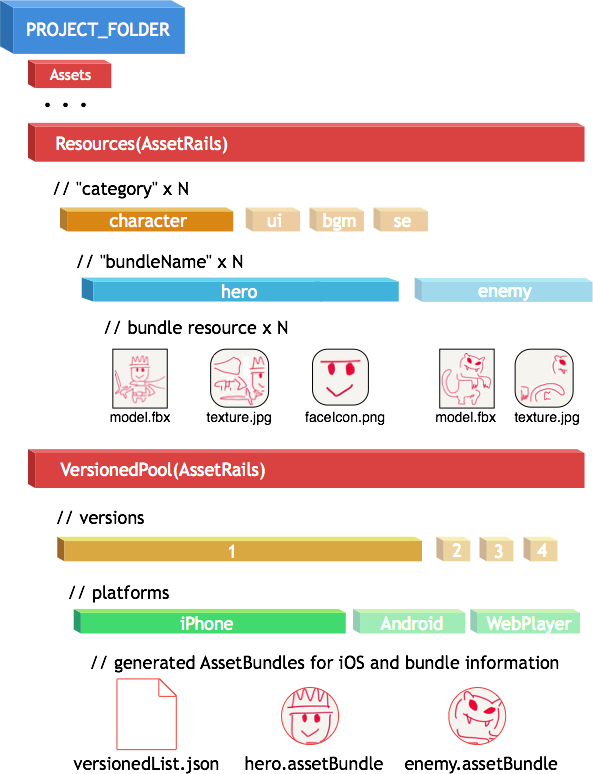
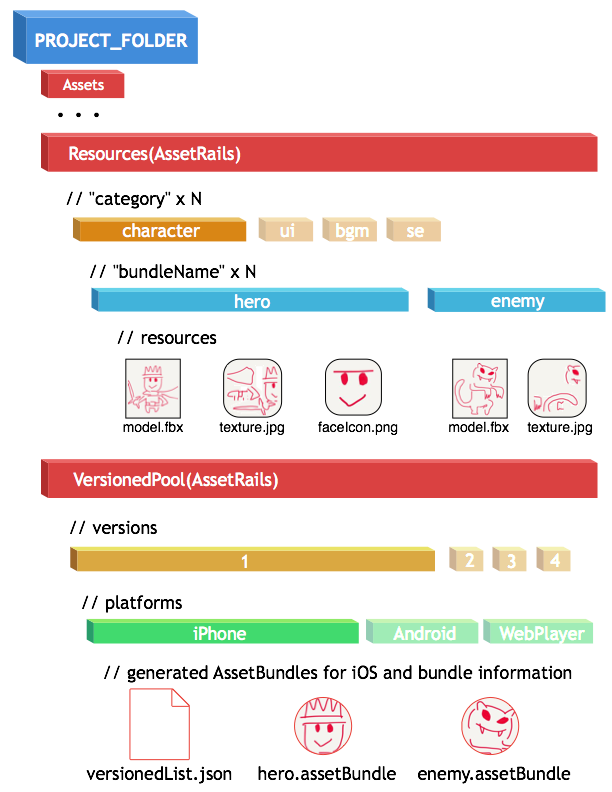
add image

diff --git a/Versioning.md b/Versioning.md
@@ -12,8 +12,7 @@ The "versioning" route outputs the "versioned" AssetBundles datas to below place
 
 	PROJECT_FOLDER/VersionedPool(AssetRails)/
 
-☆図示、version/プラットフォームごと/AssetBundles、あとリスト
-書いた。
+![versionedBase](https://raw.githubusercontent.com/sassembla/AssetRails-Support/master/image/versionedBase.png "versionedBase")
 
 This pool structure helps you:
 
@@ -25,9 +24,6 @@ This pool structure helps you:
 
 Here is versioning-d folder, there are "versioned" AssetBundles in folder and also "versionedList.json" is exists.
 
-☆AssetBunle x n とlistの中身
-書いた。
-
 versionedList.json contains the data like below.
 
 versionedList.json
@@ -37,7 +33,7 @@ versionedList.json
 		"AssetBundles": [
 			{
 				"bundleName": "A.assetBundle",
-				"version": 1,
+				"revision": 1,
 				"resourceNames": [
 					"texture",
 					"enemy"
@@ -58,13 +54,18 @@ versionedList.json
 		]
 	}
 	
-この辺に図解
 
 name | detail
 ---|---
-version | which version is contained this AssetBundle first, and also when the AssetBundle was last updated at version.
+versioned | version of AssetBundles.
+AssetBundles | the list of AssetBundle's info.
+
+
+name | detail
+---|---
 bundleName | the name of AssetBundle file.
-size | the size of AssetBundle file
+revision | when this AssetBundle was contained first, and also when the AssetBundle was last updated.
+size | the size of AssetBundle file. actual size or compressed. see 
 crc | the crc of AssetBundle which written by Unity.
 resourceNames | the list of resource-names of bundled in this AssetBundle.
 
@@ -82,17 +83,13 @@ although almost the resource which players already downloaded is still relevant.
 If you have old-versioned AssetBundles (assume that version is "1"),
 You can create The version "2" AssetBundles from combination of the version "1"'s AssetBundles + new additional AssetBundles.
 
-☆フォルダ絵、古いバージョンのAssetBundles1を持っていて、AssetBundle AとBがある。新version 2では、それにCをくわえたものにする。
-A, B, C P25の左半分
+
+![append](https://raw.githubusercontent.com/sassembla/AssetRails-Support/master/image/versionedAppend.png "append")
 
 sample command line is like below.
 
 	-executeMethod AssetRailsController.Versioning\
 		-v 2 -p iPhone --base-version 1
-
-☆リストも更新されるが、古いAssetBundlesにはそのversionがくっつけられる。
-その結果で出来るversion 2のフォルダの内容とリスト
-P25
 
 
 ##Overwrite the old AssetBundles by new AssetBundles
@@ -100,8 +97,7 @@ If version 1 contains AssetBundle named "A.assetBundle", and also new AssetBundl
 
 the "A.assetBundle" will be overwritten by new version, in this case it is **"version 2"**.
 
-☆フォルダの様子、リストの様子
-書いた奴の変更でいける
+![update](https://raw.githubusercontent.com/sassembla/AssetRails-Support/master/image/versionedUpdate.png "update")
 
 ##Combine, but also exclude specific AssetBundles to new version
 Another case, if you don't want to include "version 1"'s AssetBundle "A.assetBundle" anymore,
@@ -109,7 +105,7 @@ you can exclude it by -e --exclude-assets option and specific list file of bundl
 
 PROJECT_FOLDER/exclude.json
 
-	["A.assetBundle"]
+	["enemy.asset"]
 	
 
 And sample command line is below,
@@ -120,7 +116,6 @@ And sample command line is below,
 
 will generate these files & versionedList.json.
 
+![exclude](https://raw.githubusercontent.com/sassembla/AssetRails-Support/master/image/versionedExclude.png "exclude")
 
-☆フォルダの様子、リストの様子
-書いた奴の変更でいける
 
